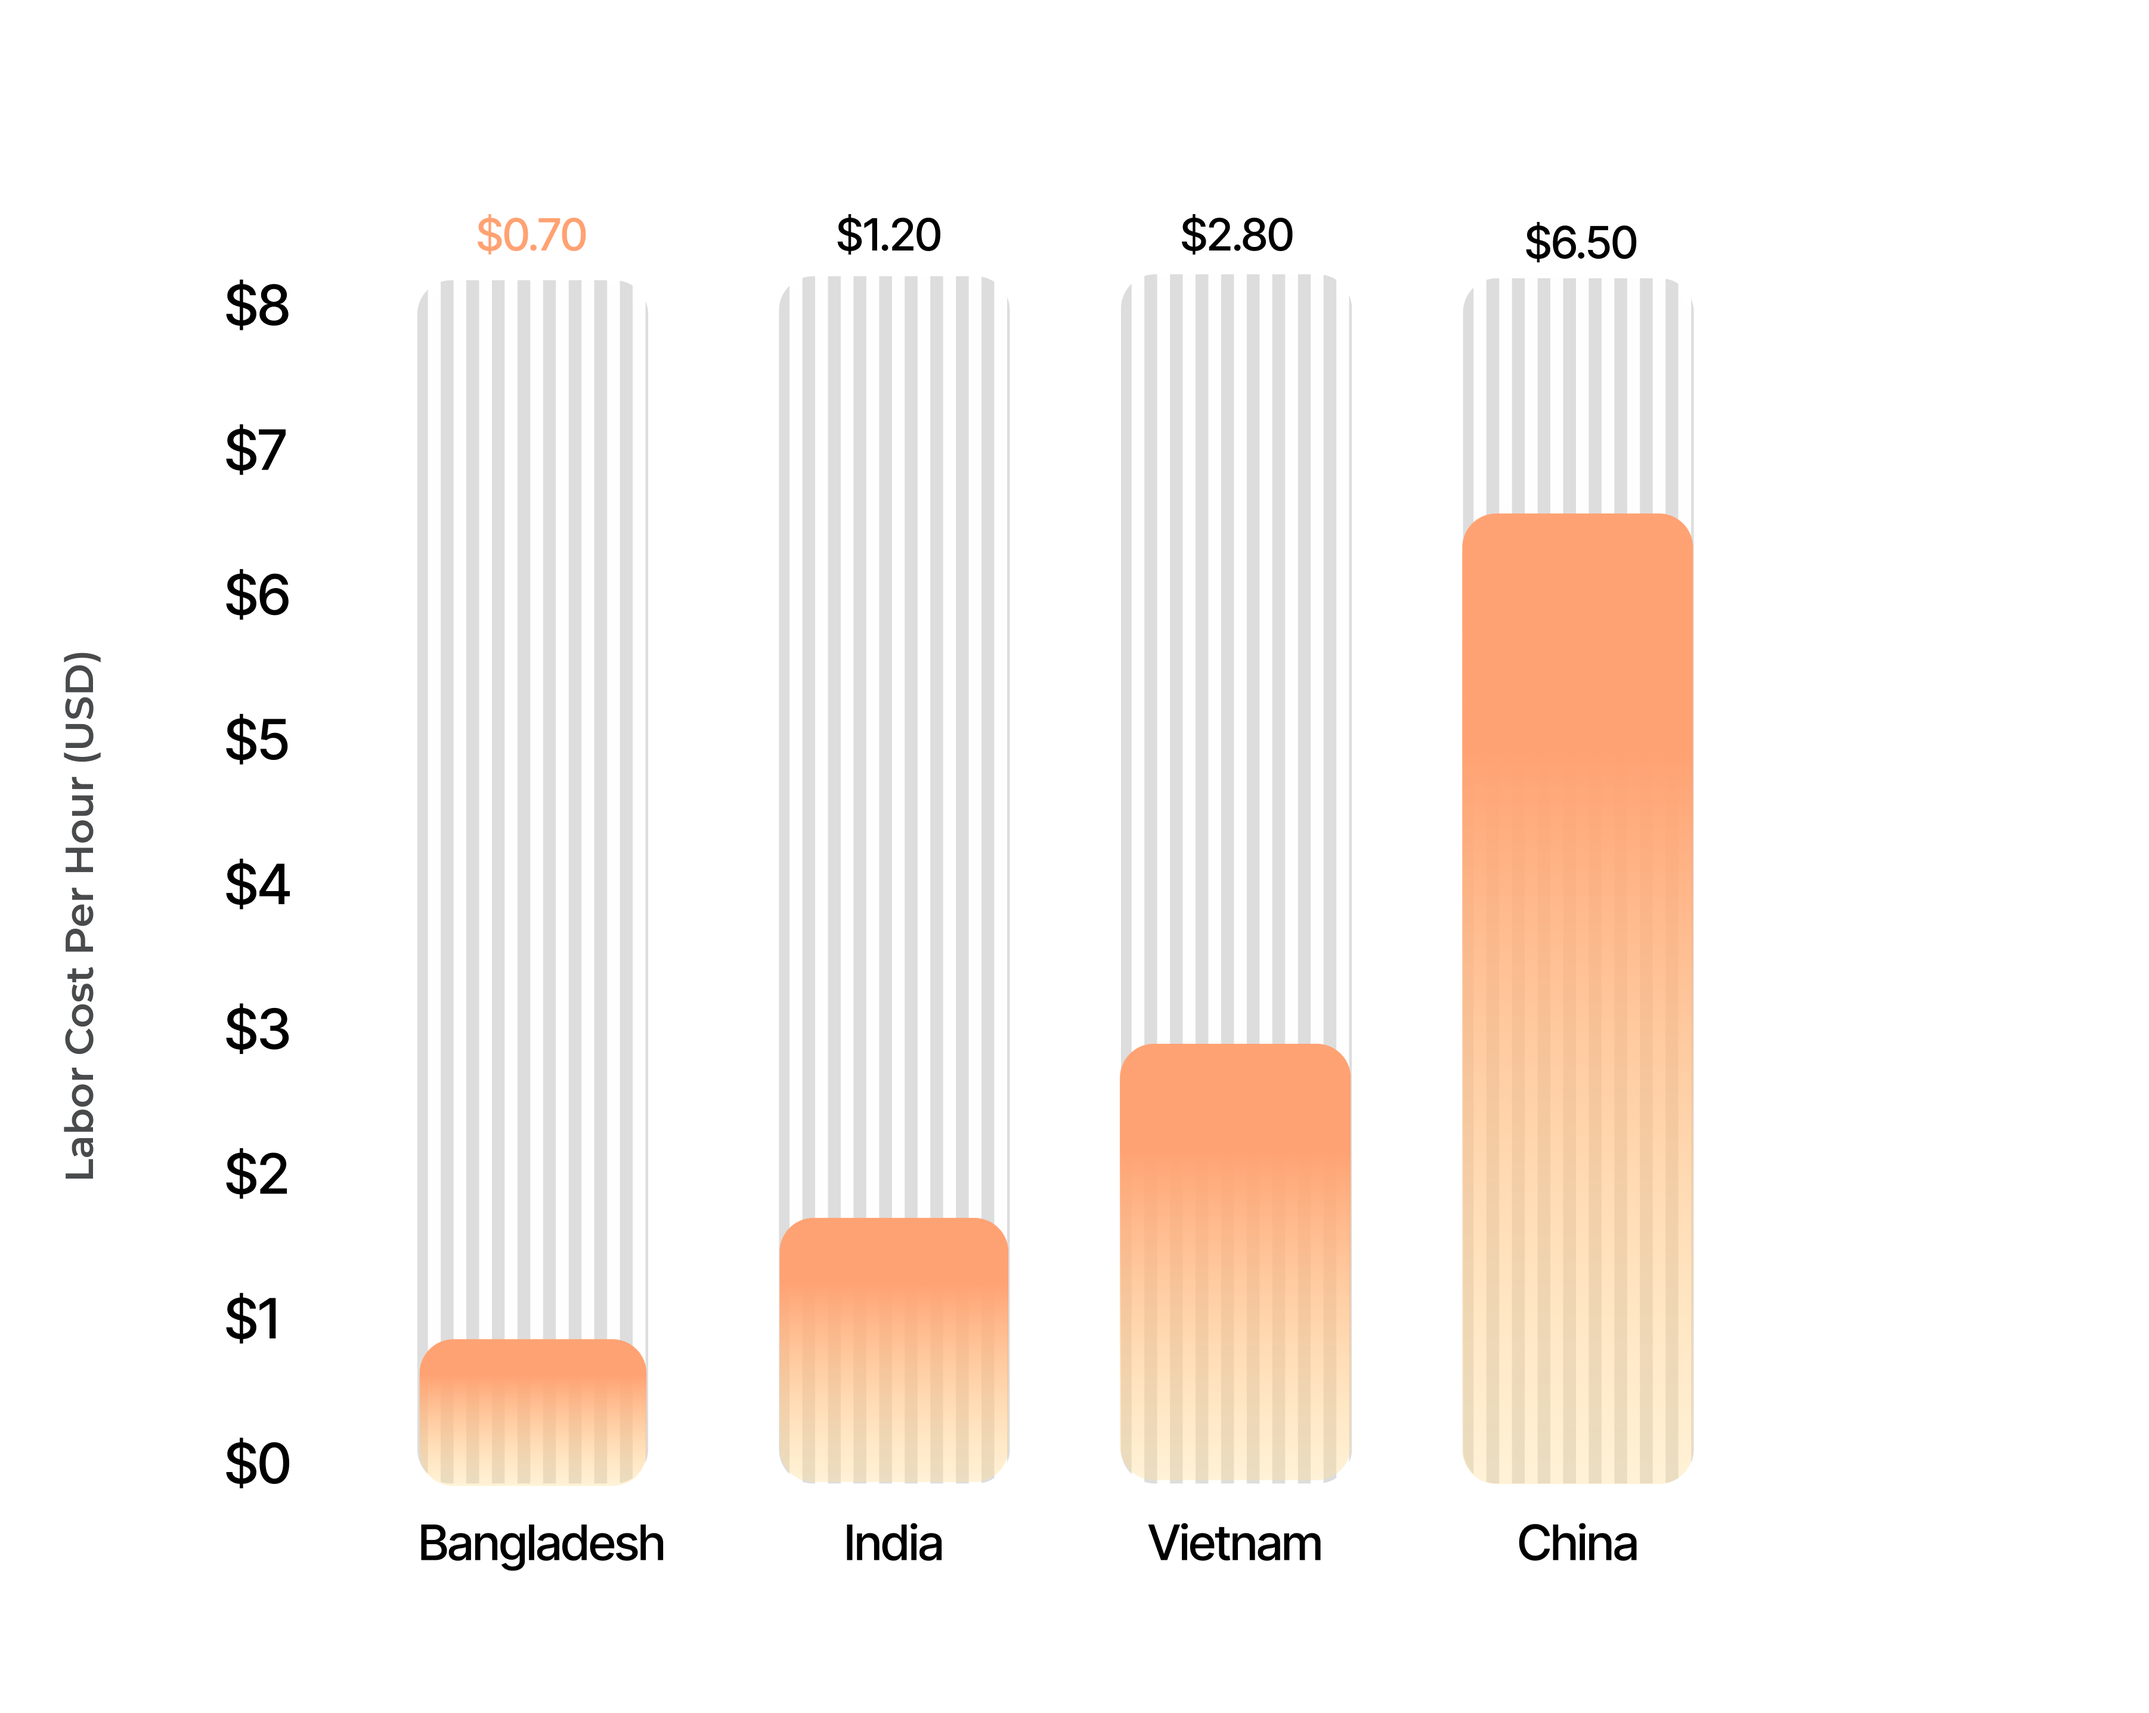
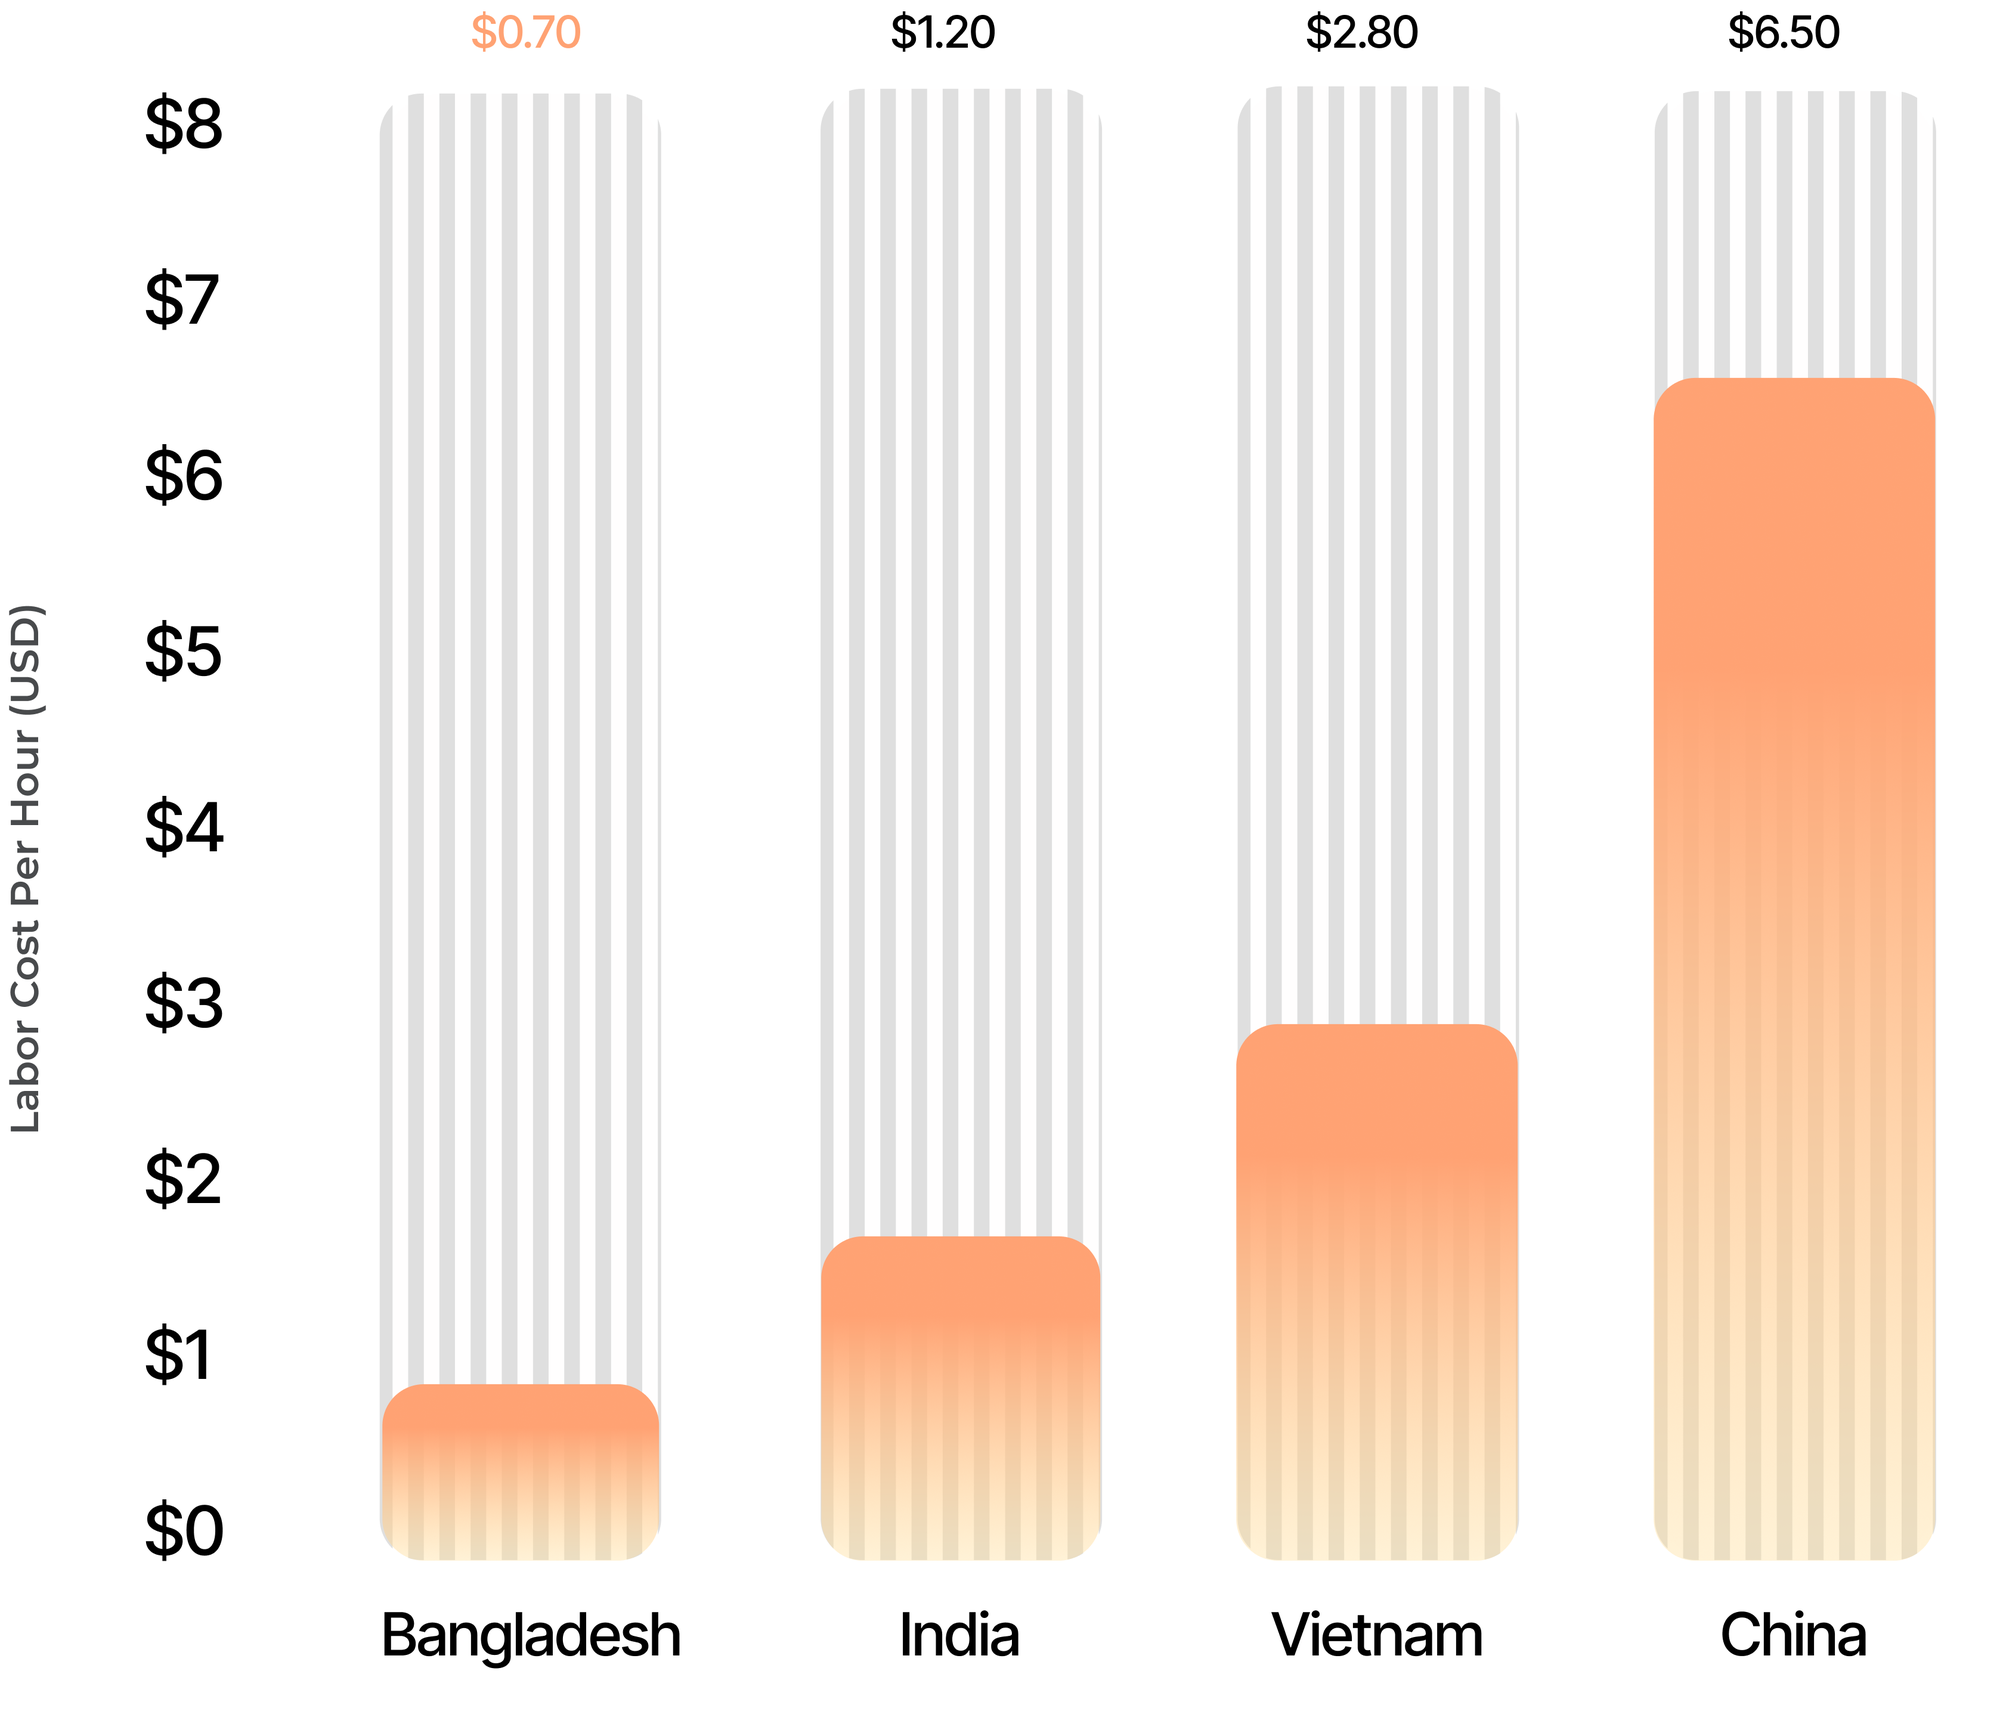
fix: add overflow-hidden class to various components for improved layout
fixed the image on comparison

diff --git a/src/pages/WhyChooseArbella/components/FiveReason.jsx b/src/pages/WhyChooseArbella/components/FiveReason.jsx
@@ -51,10 +51,10 @@ const FiveReason = () => {
   ];
 
   return (
-    <section className="w-full bg-gray-50 py-12 md:py-16 lg:py-20 font-[Montserrat]">
+    <section className="w-full bg-gray-50 py-12 md:py-16 lg:py-20 font-[Montserrat] overflow-hidden">
       {/* Header */}
       <motion.div
-        className="max-w-7xl mx-auto px-4 sm:px-6 lg:px-8 mb-12 md:mb-16 lg:mb-20"
+        className="max-w-7xl mx-auto px-4 sm:px-6 lg:px-8 mb-12 md:mb-16 lg:mb-20 overflow-hidden"
         initial={{ y: 50, opacity: 0 }}
         whileInView={{ y: 0, opacity: 1 }}
         viewport={{ once: true, amount: 0.3 }}
@@ -74,7 +74,7 @@ const FiveReason = () => {
       </motion.div>
 
       {/* Reasons List */}
-      <div className="space-y-16 md:space-y-20 lg:space-y-24">
+      <div className="space-y-16 md:space-y-20 lg:space-y-24 overflow-hidden">
         {reasons.map((reason, index) => (
           <motion.div
             key={reason.id}
@@ -85,7 +85,7 @@ const FiveReason = () => {
           >
             {reason.imagePosition === "right" ? (
               // Text Left, Image Right
-              <div className="flex flex-col lg:flex-row items-center">
+              <div className="flex flex-col lg:flex-row items-center overflow-hidden">
                 <motion.div
                   className="w-full lg:w-auto lg:flex-1 px-8 md:px-12 lg:pl-20 xl:pl-32 lg:pr-12 xl:pr-16 mb-8 lg:mb-0"
                   initial={{ x: -50, opacity: 0 }}
@@ -163,7 +163,7 @@ const FiveReason = () => {
               </div>
             ) : (
               // Image Left, Text Right
-              <div className="flex flex-col lg:flex-row-reverse items-center lg:justify-between">
+              <div className="flex flex-col lg:flex-row-reverse items-center lg:justify-between overflow-hidden">
                 <motion.div
                   className="w-full lg:w-auto lg:flex-1 lg:max-w-7xl px-8 md:px-12 lg:pl-24 xl:pl-110 mb-8 lg:mb-0"
                   initial={{ x: 50, opacity: 0 }}

diff --git a/src/components/common/Footer.jsx b/src/components/common/Footer.jsx
@@ -36,14 +36,14 @@ const Footer = () => {
   ];
 
   return (
-    <footer className="w-full">
+    <footer className="w-full overflow-hidden">
       {/* Main Footer Section */}
       <div
-        className="w-full font-[Montserrat]"
+        className="w-full font-[Montserrat] overflow-hidden"
         style={{ backgroundColor: "#293037" }}
       >
-        <div className="max-w-7xl mx-auto px-4 sm:px-6 lg:px-8 py-12 md:py-16 lg:py-20">
-          <div className="grid grid-cols-1 md:grid-cols-2 lg:grid-cols-5 gap-8 lg:gap-12 text-center md:text-left">
+        <div className="max-w-7xl mx-auto px-4 sm:px-6 lg:px-8 py-12 md:py-16 lg:py-20 overflow-hidden">
+          <div className="grid grid-cols-1 md:grid-cols-2 lg:grid-cols-5 gap-8 lg:gap-12 text-center md:text-left overflow-hidden">
             {/* Logo and Description */}
             <motion.div
               className="lg:col-span-1"
@@ -296,8 +296,8 @@ const Footer = () => {
       </div>
 
       {/* Bottom Footer Section */}
-      <div className="w-full bg-black">
-        <div className="max-w-7xl mx-auto px-4 sm:px-6 lg:px-8 py-6">
+      <div className="w-full bg-black overflow-hidden">
+        <div className="max-w-7xl mx-auto px-4 sm:px-6 lg:px-8 py-6 overflow-hidden">
           <div className="flex flex-col md:flex-row justify-between items-center gap-4 text-center md:text-left">
             {/* Copyright */}
             <motion.p

diff --git a/src/pages/WhyChooseArbella/components/Comparison.jsx b/src/pages/WhyChooseArbella/components/Comparison.jsx
@@ -29,14 +29,14 @@ const Comparison = () => {
 
         {/* Chart Image */}
         <motion.div
-          className="flex justify-center pl-0 md:pl-20"
+          className="flex justify-center pl-0 md:pl-20 pt-10"
           initial={{ y: 60, opacity: 0, scale: 0.9 }}
           whileInView={{ y: 0, opacity: 1, scale: 1 }}
           viewport={{ once: true, amount: 0.2 }}
           transition={{ duration: 1.0, delay: 0.3, ease: "easeOut" }}
           onViewportEnter={handleInView}
         >
-          <div className="relative w-full h-auto max-w-xs md:w-[751px] md:h-[718px] md:max-w-none">
+          <div className="relative w-full h-auto max-w-xs md:w-[600px] md:h-[574px] md:max-w-none">
             {/* First Image */}
             <img
               src="/assets/images/whyChooseArbella/Spendings.png"

diff --git a/src/pages/About/components/Hero.jsx b/src/pages/About/components/Hero.jsx
@@ -14,13 +14,6 @@ const Hero = () => {
       />
 
       <motion.div
-        className="absolute inset-0 bg-black/10"
-        initial={{ opacity: 0 }}
-        animate={{ opacity: 1 }}
-        transition={{ duration: 1.2, delay: 0.3, ease: "easeOut" }}
-      ></motion.div>
-
-      <motion.div
         className="absolute top-1/2 -translate-y-1/2 right-0 flex flex-col justify-center items-center gap-[12px] sm:gap-[15px] lg:gap-[17.59px] w-[48px] sm:w-[55px] lg:w-[62px] h-[150px] sm:h-[175px] lg:h-[202px] bg-white shadow-md rounded-l-md"
         initial={{ x: 100, opacity: 0 }}
         animate={{ x: 0, opacity: 1 }}
